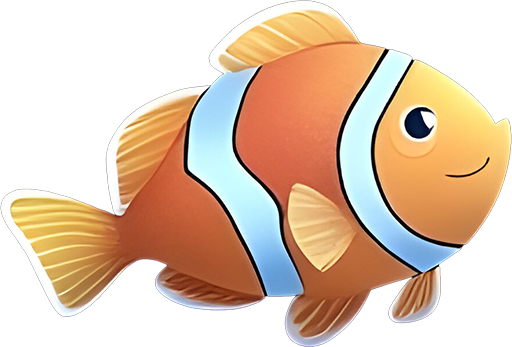
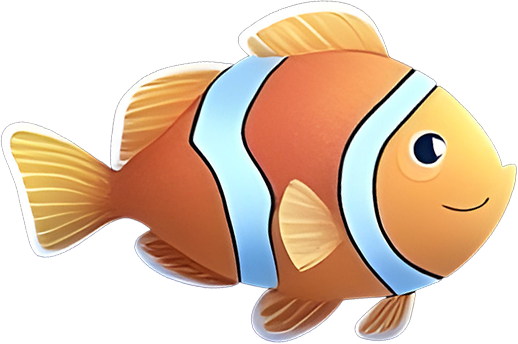
Updated animation values and fish texture

diff --git a/props/Intro.c b/props/Intro.c
@@ -80,15 +80,19 @@ void drawIntro(void)
 		// Front face
 		// Top Right
 		glTexCoord2f(1.0f, 1.0f);
+		glColor4f(1.0f, 1.0f, 1.0f, alpha);
 		glVertex3f(1.5f, 1.0f, 0.0f);
 		// Top Left
 		glTexCoord2f(0.0f, 1.0f);
+		glColor4f(1.0f, 1.0f, 1.0f, alpha);
 		glVertex3f(-1.5f, 1.0f, 0.0f);
 		// Bottom Left
 		glTexCoord2f(0.0f, 0.0f);
+		glColor4f(1.0f, 1.0f, 1.0f, alpha);
 		glVertex3f(-1.5f, -1.0f, 0.0f);
 		// Bottom Right
 		glTexCoord2f(1.0f, 0.0f);
+		glColor4f(1.0f, 1.0f, 1.0f, alpha);
 		glVertex3f(1.5f, -1.0f, 0.0f);
 		glEnd();
 		// Unbind texture
@@ -163,6 +167,7 @@ void updateIntro(void)
 	// Update intro here
 	if (iTimeElapsed > 80 && iTimeElapsed < 150)
 	{
+		// alpha -= 0.0001f;
 		intro_PosY += intro_Speed;
 		if (intro_PosY >= 10.0f)
 		{

diff --git a/props/Scene1.c b/props/Scene1.c
@@ -262,7 +262,7 @@ void updateSkyAndUnderwater(void)
 		}
 		if (fish_02_PosX <= -10.0f)
 		{
-			fish_02_PosX = -10.0f;
+			fish_02_PosX = 10.0f;
 		}
 		if (fish_03_PosX >= 10.0f)
 		{
@@ -274,7 +274,7 @@ void updateSkyAndUnderwater(void)
 		}
 		if (fish_05_PosX <= -10.0f)
 		{
-			fish_05_PosX = -10.0f;
+			fish_05_PosX = 10.0f;
 		}
 	}
 }

diff --git a/utils/common.h b/utils/common.h
@@ -38,6 +38,9 @@ extern float fish_05_PosX;
 extern float fish_05_PosY;
 extern float fish_05_Speed;
 
+// Alpha related variables
+extern float alpha;
+
 // wave related variables
 extern int x, y;
 extern float float_x, float_y, float_xb, float_yb; 

diff --git a/utils/common.c b/utils/common.c
@@ -30,6 +30,9 @@ float fish_05_PosX = 8.0f;
 float fish_05_PosY = 1.7f;
 float fish_05_Speed = 0.005f;
 
+// Alpha related variables
+float alpha = 1.0f;
+
 // wave related variables
 int x, y;
 float float_x, float_y, float_xb, float_yb; 
